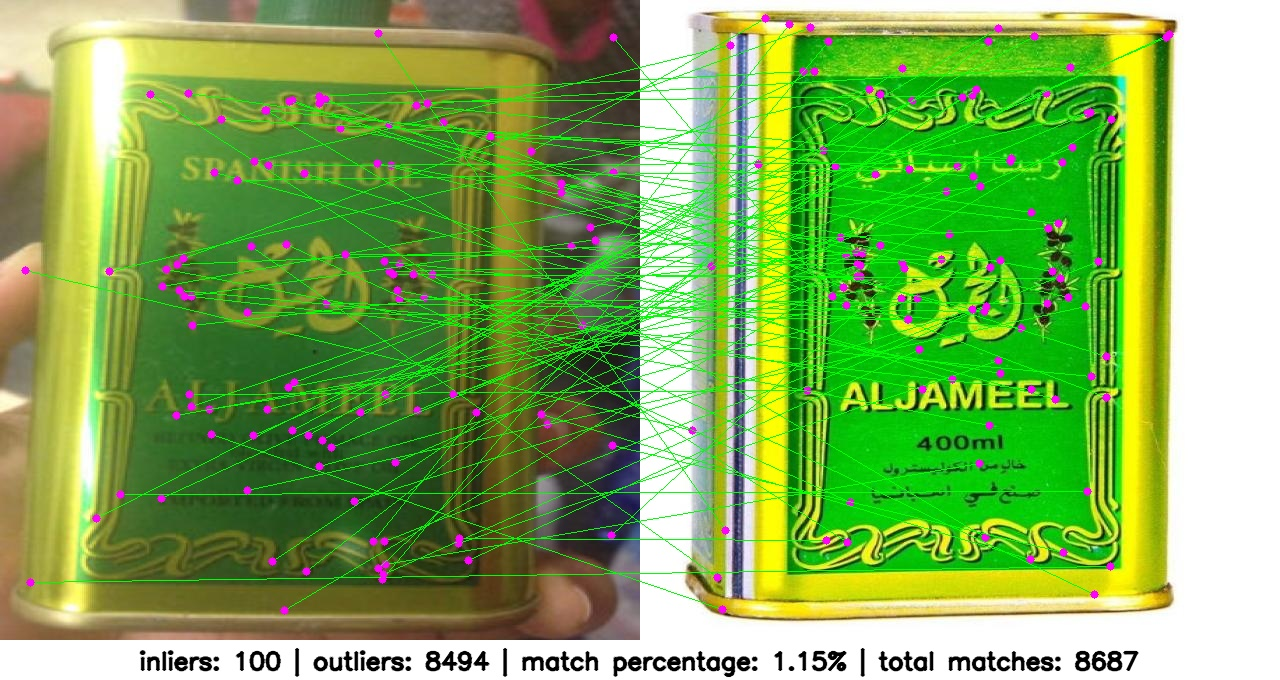
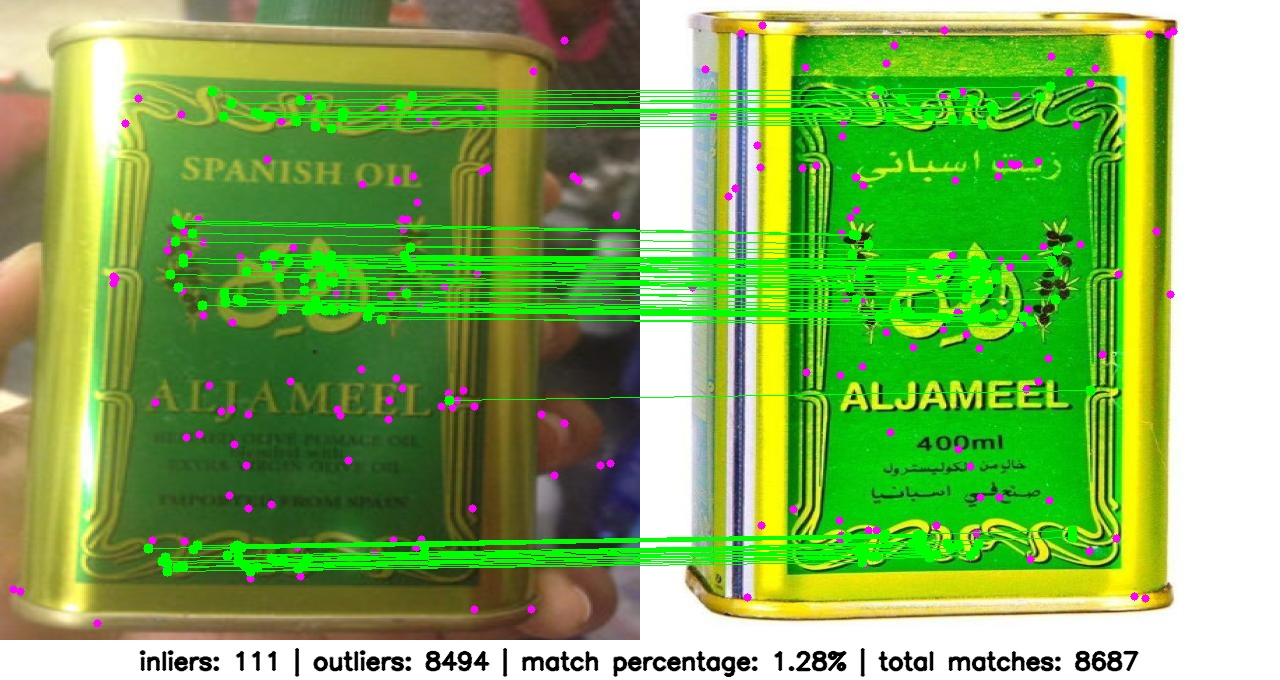
set the inliers[i]==True in ofs.py (formeryly False which causes the false inliers)

diff --git a/Comparisons/fileio.py b/Comparisons/fileio.py
@@ -60,30 +60,29 @@ def visualize_and_save_matches(query_image, test_image, kp_query, kp_test, match
         
         start_point = (int(query_pt[0]), int(query_pt[1]))
         end_point = (int(test_pt[0] + query_image.shape[1]), int(test_pt[1])) 
-        cv2.line(combined_image, start_point, end_point, (0, 255, 0), 1)
 
         # Draw circles in pink
         cv2.circle(combined_image, start_point, 4, (255, 0, 255), -1) 
         cv2.circle(combined_image, end_point, 4, (255, 0, 255), -1) 
 
     # Draw matches
-    # for match in matches:
-    #     # print(match)
-    #     query_idx = match.queryIdx # Get the set of indexes of the query keypoint
-    #     test_idx = match.trainIdx # Get the set of indexes of the test keypoint
-    #     query_pt = kp_query[query_idx].pt # Get the coordinates of the query keypoint
-    #     test_pt = kp_test[test_idx].pt # Get the coordinates of the test keypoint
-    #     start_point = (int(query_pt[0]), int(query_pt[1]))
-    #     end_point = (int(test_pt[0] + query_image.shape[1]), int(test_pt[1]))  # Shift x coordinate for test image
-    #     cv2.line(combined_image, start_point, end_point, (0, 255, 0), 1)
+    for match in matches:
+        # print(match)
+        query_idx = match.queryIdx # Get the set of indexes of the query keypoint
+        test_idx = match.trainIdx # Get the set of indexes of the test keypoint
+        query_pt = kp_query[query_idx].pt # Get the coordinates of the query keypoint
+        test_pt = kp_test[test_idx].pt # Get the coordinates of the test keypoint
+        start_point = (int(query_pt[0]), int(query_pt[1]))
+        end_point = (int(test_pt[0] + query_image.shape[1]), int(test_pt[1]))  # Shift x coordinate for test image
+        cv2.line(combined_image, start_point, end_point, (0, 255, 0), 1)
 
-    #     # inlier colors - cyan
-    #     cv2.circle(combined_image, start_point, 5, (0, 255, 0), -1)
-    #     cv2.circle(combined_image, end_point, 5, (0, 255, 0), -1)
+        # inlier colors - cyan
+        cv2.circle(combined_image, start_point, 5, (0, 255, 0), -1)
+        cv2.circle(combined_image, end_point, 5, (0, 255, 0), -1)
 
-    #     # outlier colors - red
-    #     # cv2.circle(combined_image, start_point, 3, (0, 0, 255), -1)
-    #     # cv2.circle(combined_image, end_point, 3, (0, 0, 255), -1)
+        # outlier colors - red
+        # cv2.circle(combined_image, start_point, 3, (0, 0, 255), -1)
+        # cv2.circle(combined_image, end_point, 3, (0, 0, 255), -1)
 
     # --- 4. Add Text Label to the White Area ---
     label_text = f"inliers: {len(matches)} | outliers: {len(bad_matches)} | match percentage: {round((len(matches)/total_matches)*100, 2)}% | total matches: {total_matches}"

diff --git a/Comparisons/ofs.py b/Comparisons/ofs.py
@@ -133,12 +133,12 @@ def find_matches(
             
             try:
                 # Find inliers using RANSAC (the model used is homography)
-                _, mask = cv2.findHomography(src_pts, dst_pts, estimator )
+                _, mask = cv2.findHomography(src_pts, dst_pts, estimator, ransacReprojThreshold=10, maxIters=100)
 
                 inliers = mask.ravel().tolist() # returns a 1D array of inliers with value 1 while the outliers have value of 0
 
                 # Filter good matches based on inliers. Only keep good matches with x or more inliers
-                inlier_matches = [good_matches[i] for i in range(len(good_matches)) if inliers[i]==False] # code is shortened through using list comprehensions
+                inlier_matches = [good_matches[i] for i in range(len(good_matches)) if inliers[i]==True] # code is shortened through using list comprehensions
                 num_good_matches = len(inlier_matches)
             except:
                 print("xxxxxxxxxxxxxxxxxxxxxxxxxxxxxxxxxxxxxxxxxxxxxxxxxxxxxxxxxxxxxxxxx")
